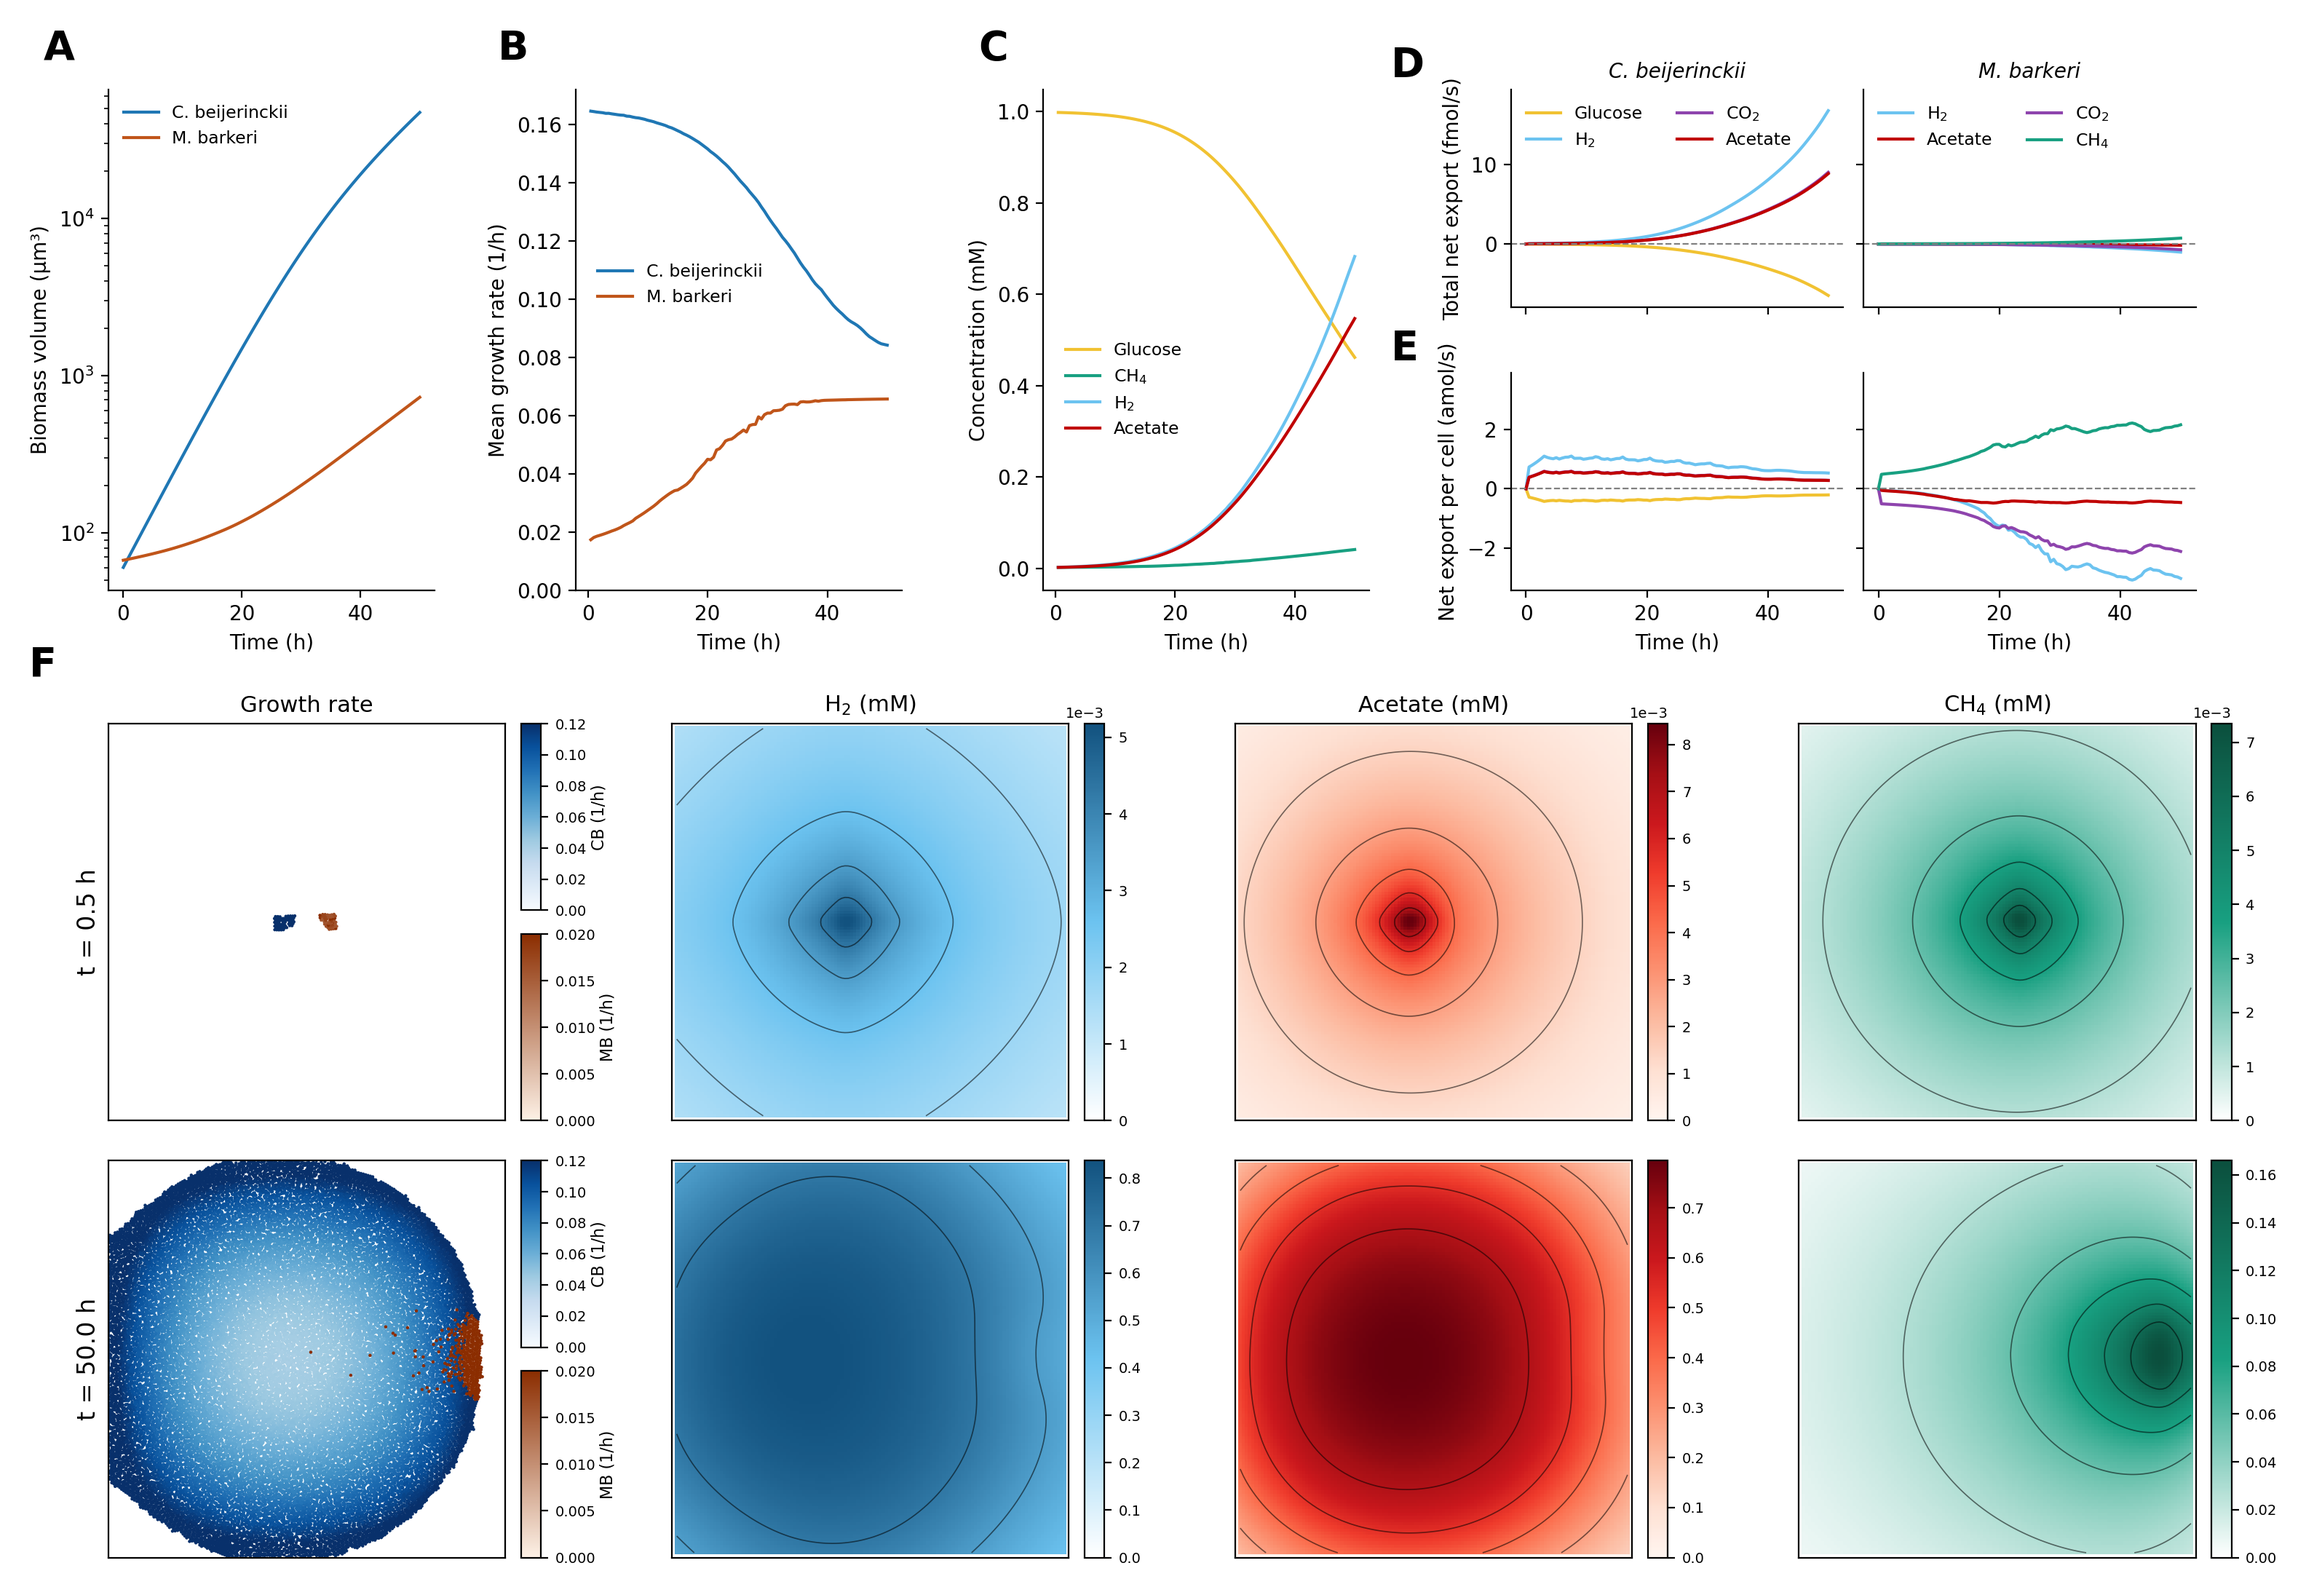
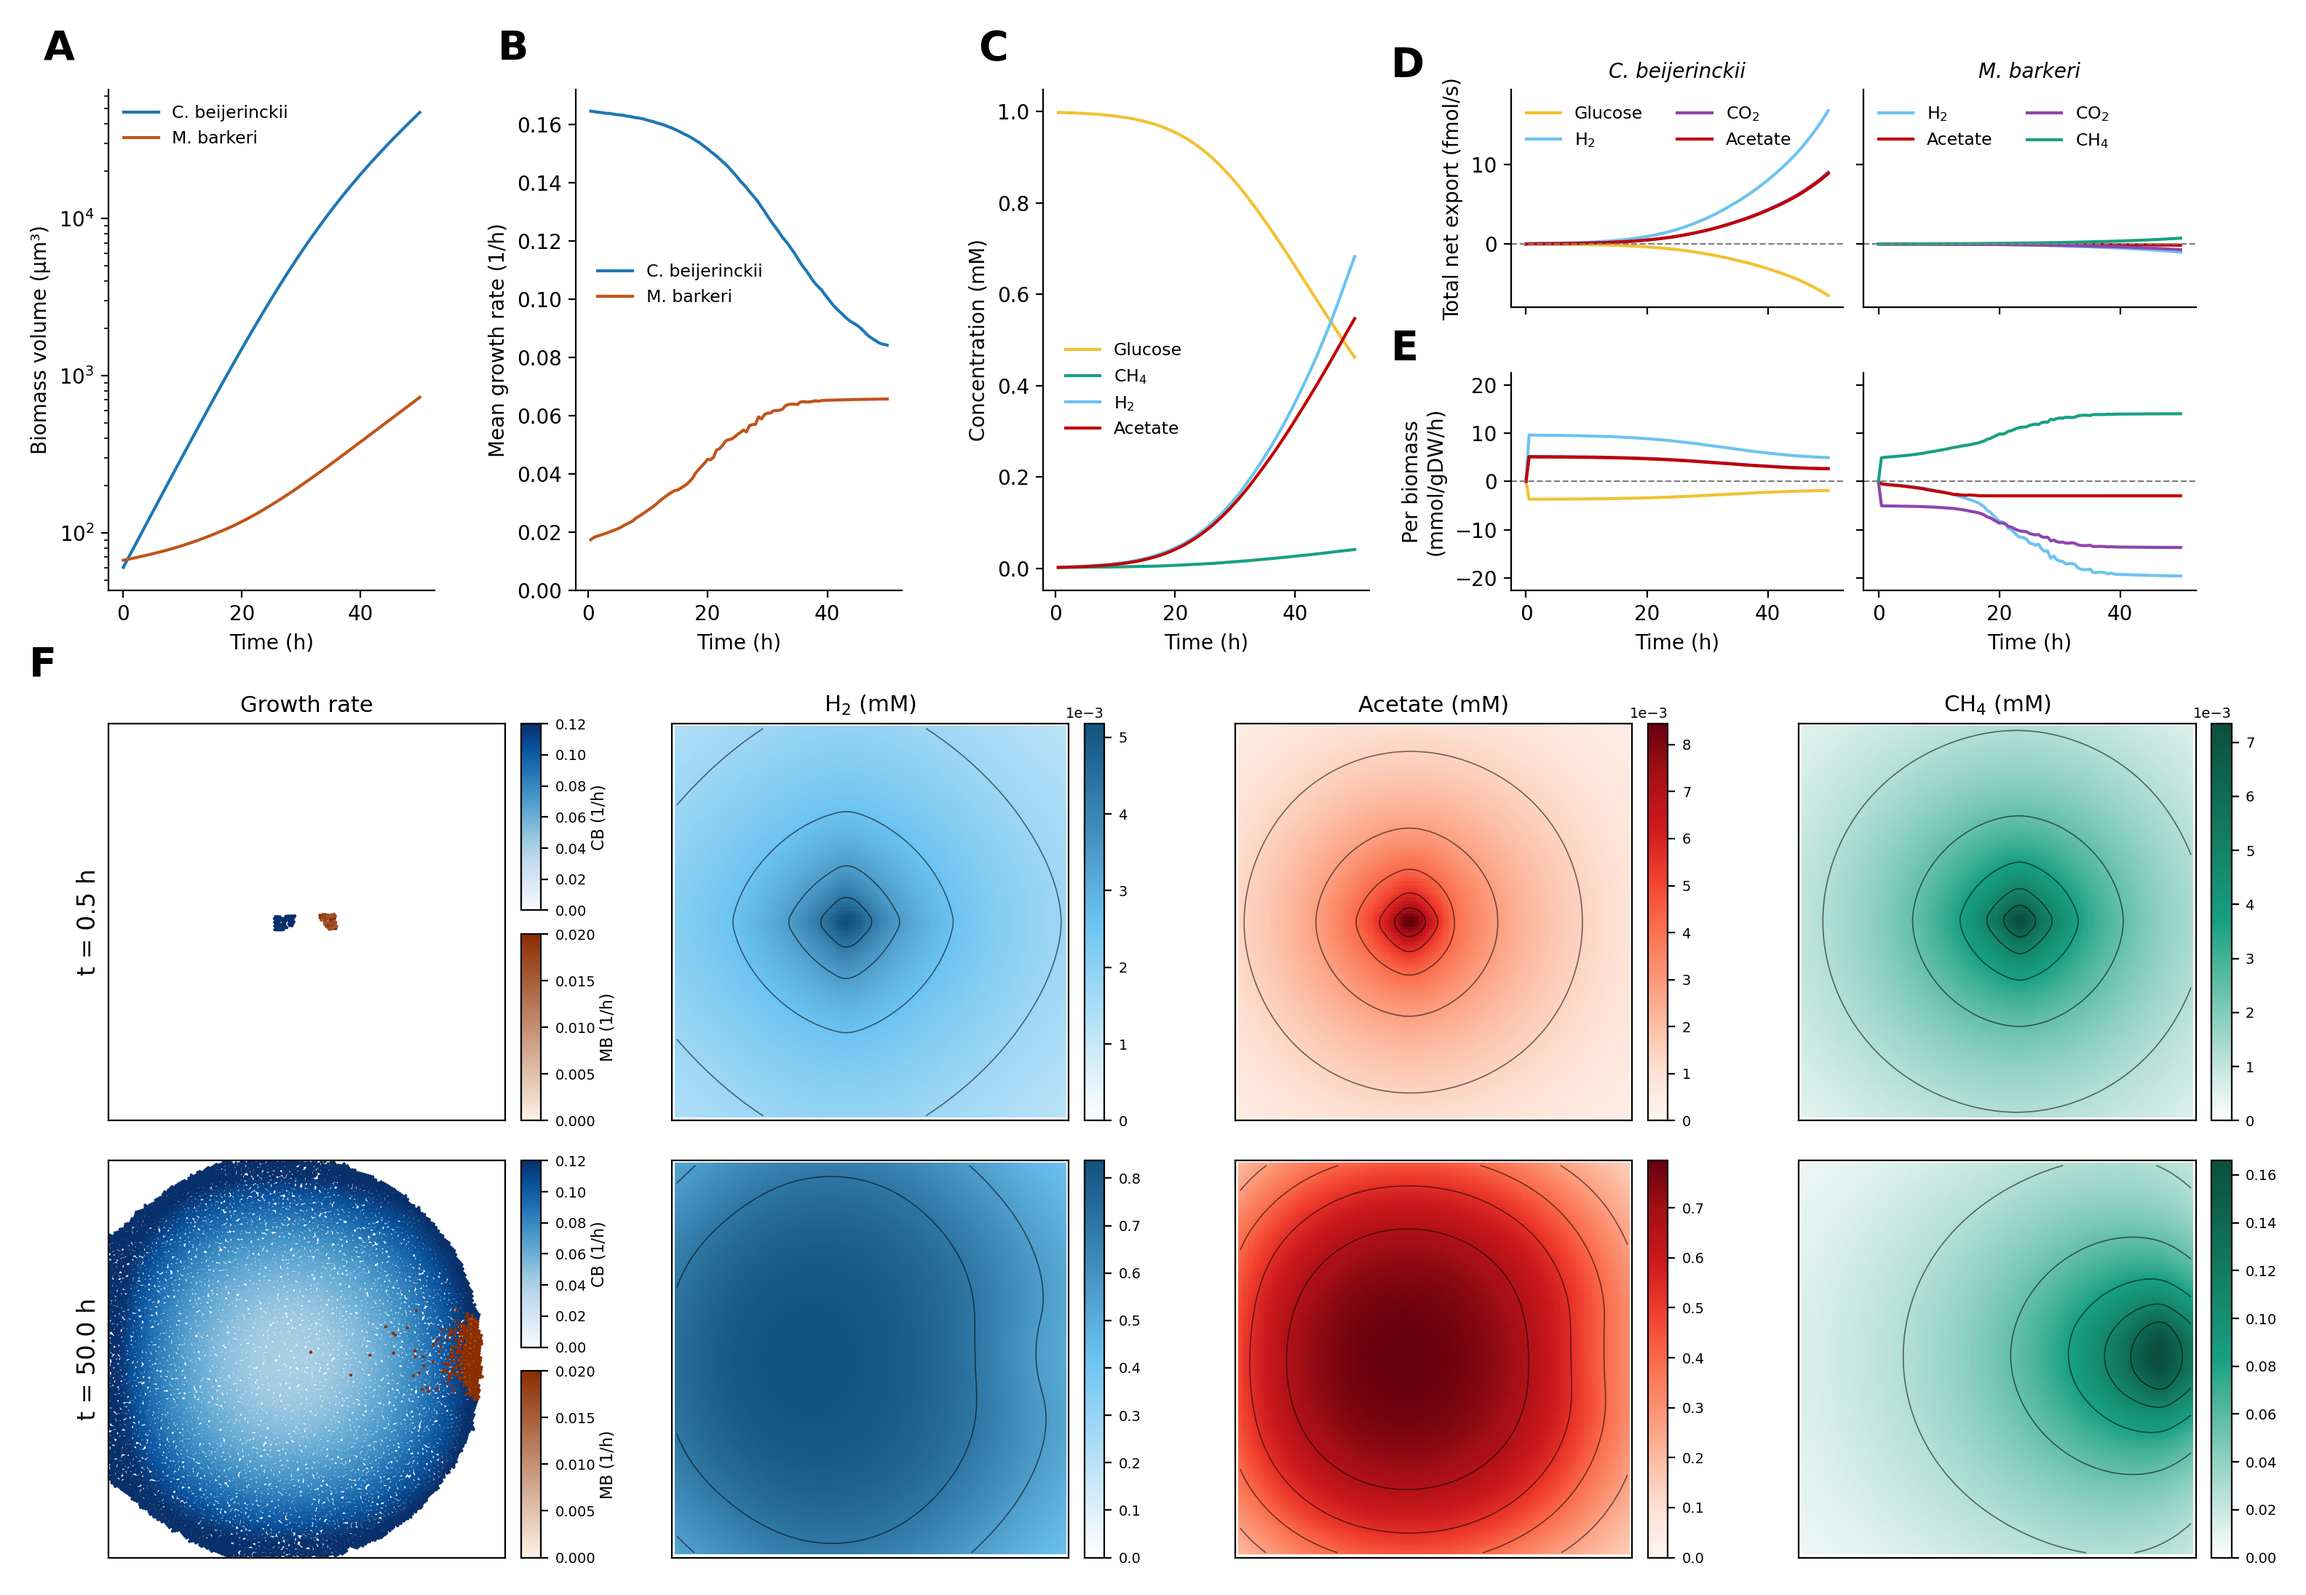
Fig. 6: panel E as net export per unit of dry weight (mmol/gDW/h)

Changed region(s): [[0.5938, 0.2173, 0.9375, 0.3724], [0.875, 0.2483, 0.9375, 0.2793]]

diff --git a/usecases/crossfeeding/scripts/make_figure.py b/usecases/crossfeeding/scripts/make_figure.py
@@ -1,4 +1,4 @@
-"""Cross-feeding figure (manuscript Fig. 6) from one run (open box, no caps, 50 h: CF3-NC50_s50): A biomass volume per species, B box-mean concentrations, D mean net export rate per living cell (amol/s) of C. beijerinckii and M. barkeri (shared y-axis),
+"""Cross-feeding figure (manuscript Fig. 6) from one run (open box, no caps, 50 h: CF3-NC50_s50): A biomass volume per species, B box-mean concentrations, D total net export (fmol/s) and E net export per unit of dry weight (mmol/gDW/h, biomass-weighted mean flux) of C. beijerinckii and M. barkeri (shared y-axis),
 B mean growth rate of the living cells of each species (the closed-box value of M. barkeri, CF3-NF_s50, is only printed), E growth rate and H2, acetate and CH4 fields at an early and a late time (colours of the substrates from common/plot_style.py; five contour lines at equal steps of the maximum, without the outer voxel layer (the boundary value)).
 usage: make_figure.py RUNDIR OUT_PREFIX [T_EARLY_MIN=30] [T_LATE_MIN=last snapshot] [CLOSED_RUNDIR=runs/CF3-NF_s50]
 Net export per cell = mean over living cells of flux (mmol/gDW/h) x dry weight (volume x (1 - fluid fraction) x 1.04e-12 g/um3) x 1e15 amol/mmol / 3600 s/h; positive = export.
@@ -20,7 +20,7 @@ for f in files:
     c = sio.loadmat(f.replace(".xml", "_cells.mat"))["cells"]; g = lambda k: c[lab.index(k)]
     ty, v, ff, dead = g("cell_type"), g("total_volume"), g("fluid_fraction"), g("dead") > 0; dw = v * (1 - ff) * 1.04e-12; alive = ~dead
     ts.append(t / 60); vol.append([v[(ty == k) & alive].sum() for k in (0, 1)]); grm.append([g("growth_rate")[(ty == k) & alive].mean() for k in (0, 1)])
-    exp.append({(k, nm): (g(col) * dw * 1e12 / 3600)[(ty == k) & alive].sum() for k in (0, 1) for nm, col in EXP.items()}); expm.append({(k, nm): (g(col) * dw * 1e15 / 3600)[(ty == k) & alive].mean() for k in (0, 1) for nm, col in EXP.items()})
+    exp.append({(k, nm): (g(col) * dw * 1e12 / 3600)[(ty == k) & alive].sum() for k in (0, 1) for nm, col in EXP.items()}); expm.append({(k, nm): (g(col) * dw)[(ty == k) & alive].sum() / dw[(ty == k) & alive].sum() for k in (0, 1) for nm, col in EXP.items()})
     me = sio.loadmat(f.replace(".xml", "_microenvironment0.mat"))["multiscale_microenvironment"]; conc.append({k: me[r].mean() for k, r in VAR.items()})
     if abs(t - TE) < 1 or abs(t - TL) < 1: snaps[t] = (me, g("position[0]"), g("position[1]"), g("growth_rate"), ty, dead)
 ts, vol, grm = np.array(ts), np.array(vol), np.array(grm); TE = min(snaps, key=lambda t: abs(t - TE)); TL = min(snaps, key=lambda t: abs(t - TL))
@@ -38,8 +38,9 @@ b = fig.add_subplot(top[2]); cc = {"glucose": SC["glucose"], "methane": SC["meth
 for k, col in cc.items(): b.plot(ts[ts >= 1 / 60], np.array([d[k] for d in conc])[ts >= 1 / 60], color=col, label={"glucose": "Glucose", "methane": "CH$_4$", "H2": "H$_2$", "acetate": "Acetate"}[k])
 b.set_ylabel("Concentration (mM)"); b.set_xlabel("Time (h)"); b.legend(frameon=False, ncol=1, fontsize=8.5, loc="center left", bbox_to_anchor=(0.02, 0.40)); LET(b, "C")
 col = {"Glucose": SC["glucose"], "H$_2$": SC["h2"], "CO$_2$": SC["co2"], "Acetate": SC["acetate"], "CH$_4$": SC["methane"]}
+YM = 1.15 * max(abs(v) for e_ in expm[3:] for v in e_.values()); print('YM', YM)
 xp = top[3].subgridspec(2, 2, wspace=0.06, hspace=0.30); dax = {}
-for r, (E_, yl, Lt, ylim) in enumerate(((exp, "Total net export (fmol/s)", "D", (-8, 19.5)), (expm, "Net export per cell (amol/s)", "E", (-3.4, 3.9)))):
+for r, (E_, yl, Lt, ylim) in enumerate(((exp, "Total net export (fmol/s)", "D", (-8, 19.5)), (expm, "Per biomass\n(mmol/gDW/h)", "E", (-YM, YM)))):
     for i, (k, names, nm_) in enumerate(((0, ["Glucose", "H$_2$", "CO$_2$", "Acetate"], "C. beijerinckii"), (1, ["H$_2$", "Acetate", "CO$_2$", "CH$_4$"], "M. barkeri"))):
         d = fig.add_subplot(xp[r, i], sharey=dax.get(r), sharex=dax.get("x%d" % i)); dax.setdefault(r, d); dax.setdefault("x%d" % i, d)
         for nm in names: d.plot(ts, [e_[(k, nm)] for e_ in E_], color=col[nm], label=nm)
